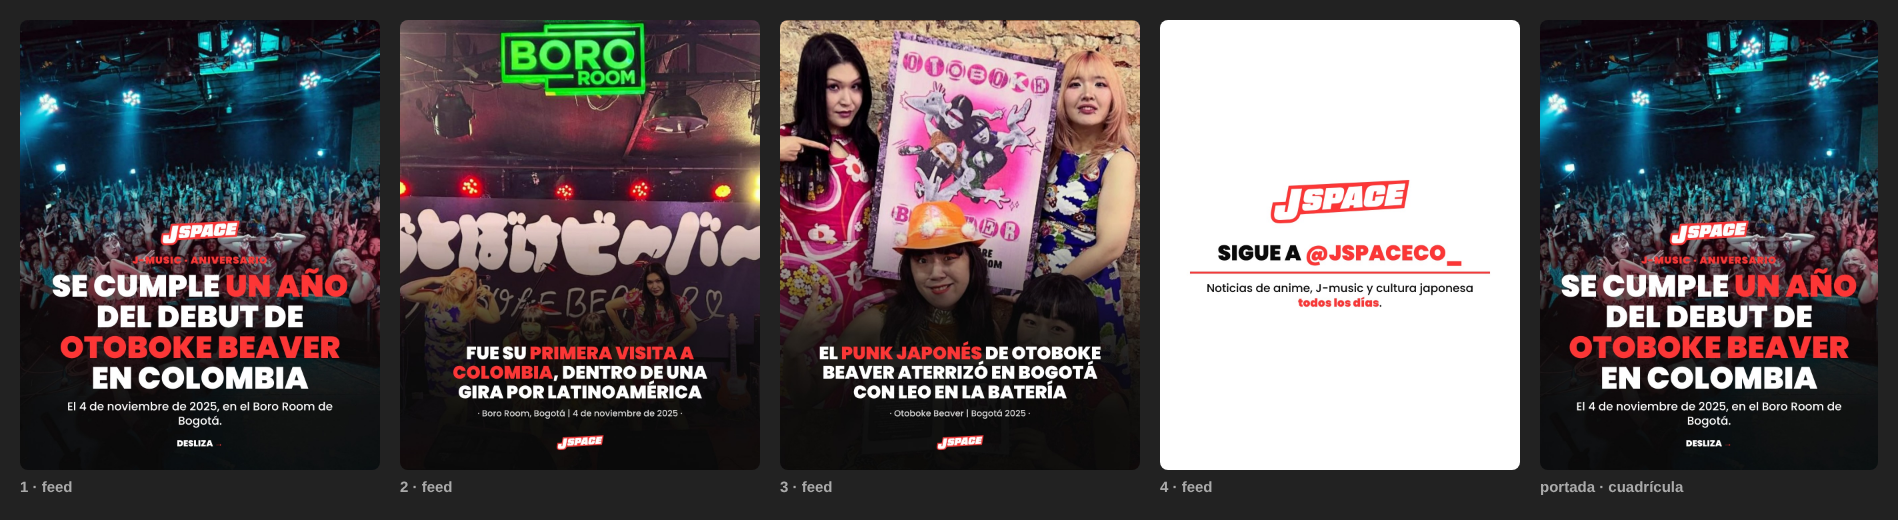
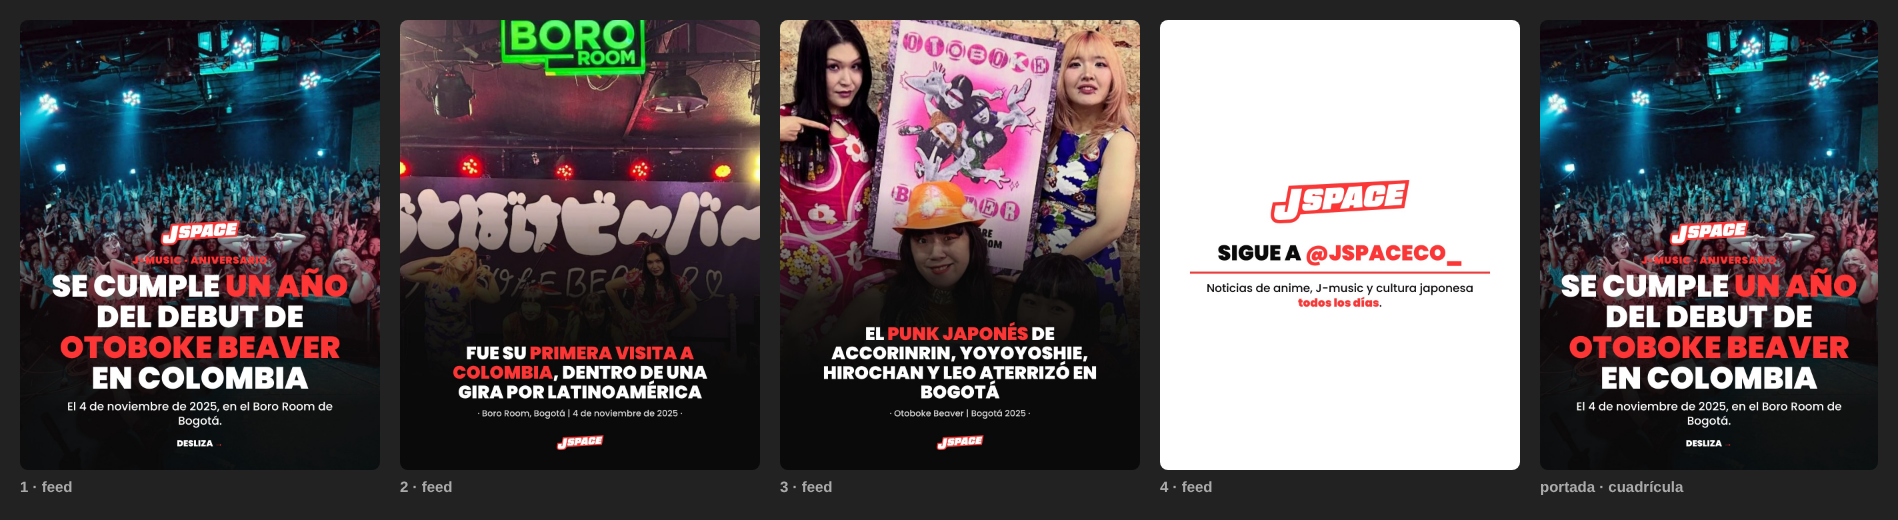
Telegram: Otoboke slide 3 con copy de Kazuo, fotos más arriba y degradado más oscuro
Claude-Session: https://claude.ai/code/session_011K3BAtrqQW7PHmDgh6uK2V

Changed region(s): [[0.1865, 0.0308, 0.6217, 0.7692]]

diff --git a/plantilla/noticia.html b/plantilla/noticia.html
@@ -106,8 +106,12 @@
     const im = document.createElement('img'); im.src = src(S.imagen); im.style.objectPosition = S.encuadre || '50% 30%'; f.appendChild(im);
     // caber: la foto entera (sin recortar caras) arriba y el resto en negro con degradado para el texto
     if (S.caber) { f.style.background = '#0A0A0A'; im.style.objectFit = 'contain'; im.style.objectPosition = '50% ' + (S.caber === true ? '0%' : S.caber); }
+    // subir: sube la foto N px (el hueco de abajo queda cubierto por el degradado, que se vuelve opaco)
+    if (S.subir) { f.style.background = '#0A0A0A'; im.style.transform = `translateY(-${S.subir}px)`; }
     el('div', 'abs', { left: '0', top: '0', width: W + 'px', height: H + 'px',
-      background: `linear-gradient(180deg, rgba(10,10,10,0) 45%, rgba(10,10,10,${0.85 * (S.sombra ?? 1)}) 70%, rgba(10,10,10,${0.97 * (S.sombra ?? 1)}) 88%)` });
+      background: S.subir
+        ? `linear-gradient(180deg, rgba(10,10,10,0) 38%, rgba(10,10,10,${0.9 * (S.sombra ?? 1)}) 62%, rgba(10,10,10,1) 80%, rgba(10,10,10,1) 100%)`
+        : `linear-gradient(180deg, rgba(10,10,10,0) 45%, rgba(10,10,10,${0.85 * (S.sombra ?? 1)}) 70%, rgba(10,10,10,${0.97 * (S.sombra ?? 1)}) 88%)` });
     const bl = [];
     if (S.circulos?.length) {
       const n = S.circulos.length, d = n > 4 ? 140 : 170, gap = 14, fila = el('div', 'abs', { left: '0', width: W + 'px', height: d + 'px', display: 'flex', justifyContent: 'center', gap: gap + 'px' });
